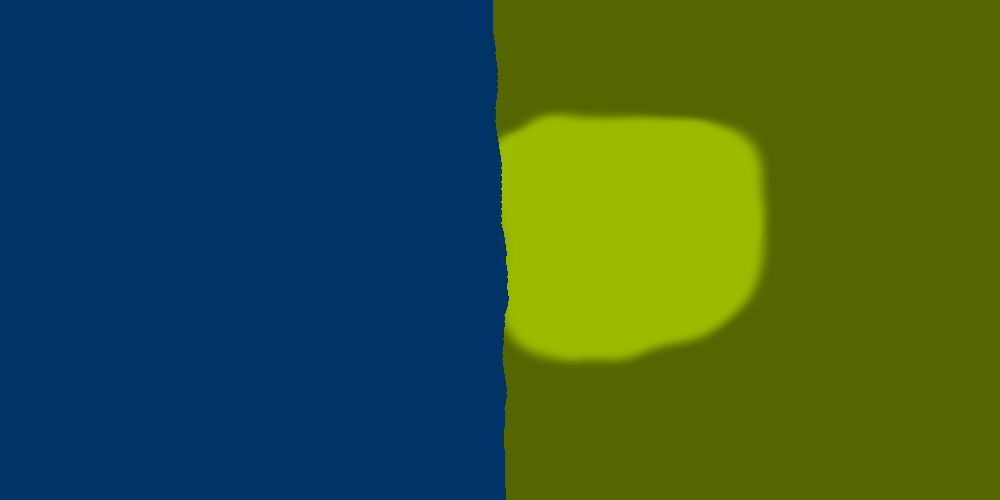
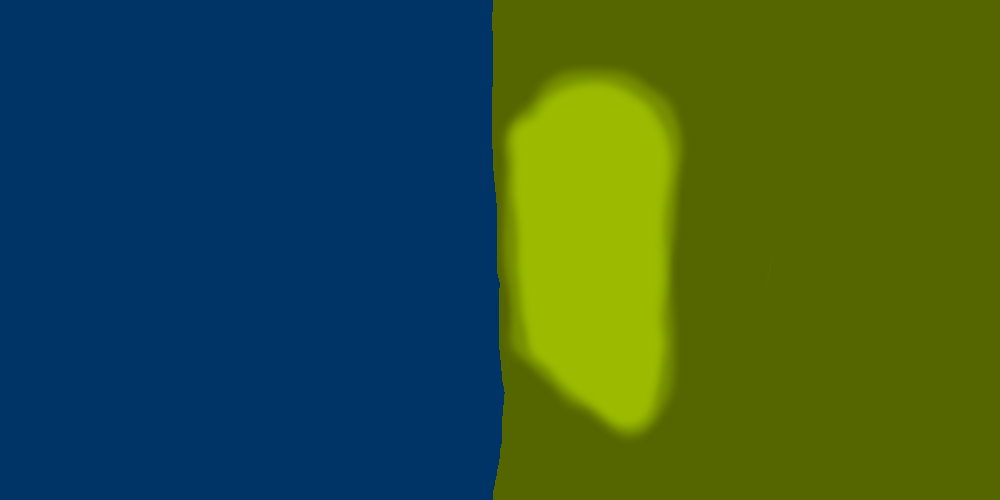
Tweak trenches, subduction, volcanic activity and serialization
[#153491483]

Changed region(s): [[0.465, 0.12, 0.775, 0.87], [0.496, 0.9, 0.527, 1.0]]

diff --git a/js/plates-model/field.js b/js/plates-model/field.js
@@ -54,21 +54,21 @@ export default class Field extends FieldBase {
     this.orogeny = null
     this.volcanicAct = null
     this.subduction = null
-    this.topPlateDeform = false
+    this.trench = false
 
     // Used by adjacent fields only (see model.generateNewFields).
     this.noCollisionDist = 0
 
     // Physics properties:
     this.mass = getMass(this.type)
-    this.draggingPlate = null
 
     // Properties that are not serialized and can be derived from other properties.
+    this.draggingPlate = null // calculated during collision detection
     this.isContinentBuffer = false
   }
 
   get serializableProps () {
-    return [ 'id', 'boundary', 'age', '_type', 'baseElevation', 'baseCrustThickness', 'noCollisionDist', 'mass', 'topPlateDeform', 'originalColor' ]
+    return [ 'id', 'boundary', 'age', '_type', 'baseElevation', 'baseCrustThickness', 'trench', 'noCollisionDist', 'mass', 'originalColor' ]
   }
 
   serialize () {
@@ -76,8 +76,6 @@ export default class Field extends FieldBase {
     props.orogeny = this.orogeny && this.orogeny.serialize()
     props.subduction = this.subduction && this.subduction.serialize()
     props.volcanicAct = this.volcanicAct && this.volcanicAct.serialize()
-    // Custom serialization of references to other objects.
-    props.draggingPlate = this.draggingPlate ? this.draggingPlate.id : null
     return props
   }
 
@@ -87,9 +85,6 @@ export default class Field extends FieldBase {
     field.orogeny = props.orogeny && Orogeny.deserialize(props.orogeny, field)
     field.subduction = props.subduction && Subduction.deserialize(props.subduction, field)
     field.volcanicAct = props.volcanicAct && VolcanicActivity.deserialize(props.volcanicAct, field)
-    // Those properties are just IDs at this point. They need to be processed later,
-    // when all the objects are already created. It's done in the Model.deserialize method.
-    field.draggingPlate = props.draggingPlate
     return field
   }
 
@@ -117,6 +112,11 @@ export default class Field extends FieldBase {
 
   get isIsland () {
     return this._type === FIELD_TYPE.island
+  }
+
+  get subductingPlateUnderneath () {
+    // Volcanic activity happens on the overriding plate. Just check if it's still colliding with subducting plate.
+    return this.volcanicAct && this.volcanicAct.colliding
   }
 
   get oceanicCrust () {
@@ -160,11 +160,12 @@ export default class Field extends FieldBase {
         // age = 0 => oceanicRidgeElevation
         // age = 1 => baseElevation
         modifier = (config.oceanicRidgeElevation - this.baseElevation) * (1 - this.normalizedAge)
-      } else if (this.topPlateDeform && this.isBoundary()) {
-        modifier = -1.5
       }
     } else {
       modifier += this.mountainElevation
+    }
+    if (this.trench) {
+      modifier = -1.5
     }
     return Math.min(1, this.baseElevation + modifier)
   }
@@ -179,6 +180,9 @@ export default class Field extends FieldBase {
   }
 
   get crustThickness () {
+    if (this.trench) {
+      return 0.1
+    }
     if (this.isOcean) {
       return this.baseCrustThickness * this.normalizedAge
     } else {
@@ -191,6 +195,9 @@ export default class Field extends FieldBase {
   }
 
   get lithosphereThickness () {
+    if (this.trench) {
+      return 0.1
+    }
     if (this.isOcean) {
       return 0.7 * this.normalizedAge
     }
@@ -211,7 +218,6 @@ export default class Field extends FieldBase {
     this.orogeny = null
     this.volcanicAct = null
     this.subduction = null
-    this.topPlateDeform = false
     this.mass = getMass(this.type)
   }
 
@@ -291,11 +297,25 @@ export default class Field extends FieldBase {
     if (this.volcanicAct) {
       this.volcanicAct.update(timestep)
     }
+    if (this.trench && (!this.boundary || this.orogeny)) {
+      // Remove trench when field isn't boundary anymore. Or when it collides with other continent and orogeny happens.
+      this.trench = false
+    }
+    if (!this.trench && this.boundary && this.subductingPlateUnderneath) {
+      this.trench = true
+    }
+
     // Age is a travelled distance in fact.
     this.age += this.displacement(timestep).length()
   }
 
   resetCollisions () {
     this.draggingPlate = null
+    if (this.subduction) {
+      this.subduction.resetCollision()
+    }
+    if (this.volcanicAct) {
+      this.volcanicAct.resetCollision()
+    }
   }
 }

diff --git a/js/plates-model/model.js b/js/plates-model/model.js
@@ -35,6 +35,7 @@ export default class Model {
       // it should be sorted again.
       this.plates = generatePlates(imgData, initFunction).sort(sortByDensityAsc)
       markIslands(this.plates)
+      this.calculateDynamicProperties()
     }
   }
 
@@ -55,12 +56,7 @@ export default class Model {
     model.plates = props.plates.map(serializedPlate => Plate.deserialize(serializedPlate))
     // Calculate values that are not serialized and can be derived from other properties.
     markIslands(model.plates)
-    // Deserialize references to other objects. This can be done when all the plates and fields are initially created.
-    model.forEachField(f => {
-      if (f.draggingPlate) {
-        f.draggingPlate = model.getPlate(f.draggingPlate)
-      }
-    })
+    model.calculateDynamicProperties()
     return model
   }
 
@@ -174,17 +170,23 @@ export default class Model {
       this.divideBigPlates()
     }
 
+    this.calculateDynamicProperties()
+
     if (this.kineticEnergy > 500) {
       window.alert('Model has diverged, time: ' + this.time)
       this._diverged = true
     }
   }
 
-  // Detect collisions, update geological processes, add new fields and remove unnecessary ones.
-  simulatePlatesInteractions (timestep) {
-    this.forEachField(field => field.resetCollisions())
+  // Calculates properties that can be derived from other properties and don't need to be serialized.
+  // Those properties also should be updated every step.
+  calculateDynamicProperties () {
     this.forEachPlate(plate => plate.calculateContinentBuffers())
     this.detectCollisions()
+  }
+
+  // Detect collisions, update geological processes, add new fields and remove unnecessary ones.
+  simulatePlatesInteractions (timestep) {
     this.forEachField(field => field.performGeologicalProcesses(timestep))
     this.forEachPlate(plate => plate.removeUnnecessaryFields()) // e.g. fields that subducted
     this.removeEmptyPlates()
@@ -196,6 +198,7 @@ export default class Model {
   }
 
   detectCollisions () {
+    this.forEachField(field => field.resetCollisions())
     // Note that plates are sorted by density (see constructor).
     // Start from the bottom plate. Why? When testing overlapping of bottom fields with top fields, it might happen
     // that we will miss some top ones. Even though there is some plate underneeth. This is better than the other way

diff --git a/js/plates-model/volcanic-activity.js b/js/plates-model/volcanic-activity.js
@@ -36,7 +36,12 @@ export default class VolcanicActivity {
 
   get islandProbability () {
     if (!this.active) return 0
-    return this.value / 40
+    return this.value / 20
+  }
+
+  get colliding () {
+    // See .setCollision. If there's any collision, speed would be > 0.
+    return this.speed > 0
   }
 
   setCollision (field) {
@@ -56,7 +61,6 @@ export default class VolcanicActivity {
 
   update (timestep) {
     if (!this.active) {
-      this.resetCollision()
       return
     }
 
@@ -74,7 +78,5 @@ export default class VolcanicActivity {
     }
 
     this.deformingCapacity -= timestep
-
-    this.resetCollision()
   }
 }

diff --git a/js/plates-model/subduction.js b/js/plates-model/subduction.js
@@ -34,7 +34,7 @@ export default class Subduction {
   }
 
   get progress () {
-    return Math.min(1, this.dist / MAX_SUBDUCTION_DIST)
+    return Math.min(1, Math.pow(this.dist / MAX_SUBDUCTION_DIST, 2))
   }
 
   get active () {
@@ -101,8 +101,6 @@ export default class Subduction {
     // It should be called after all the update() calls are made. However, it shouldn't have significant impact
     // on the simulation and simplifies code a bit.
     this.tryToDetachFromPlate()
-
-    this.resetCollision()
   }
 
   tryToDetachFromPlate () {

diff --git a/js/colormaps.js b/js/colormaps.js
@@ -46,7 +46,7 @@ function d3Colormap (desc, shadesCount = null) {
 // https://gist.github.com/hugolpz/4351d8f1b3da93de2c61
 // https://en.wikipedia.org/wiki/Wikipedia:WikiProject_Maps/Conventions#Topographic_maps
 const topoColormap = d3Colormap({
-  [MIN_ELEVATION]: '#003b63',
+  [MIN_ELEVATION]: '#2f85bf',
   0.00: '#3696d8',
   0.49: '#b5ebfe',
   0.50: '#A7DFD2',

diff --git a/js/plates-model/fields-collision.js b/js/plates-model/fields-collision.js
@@ -15,7 +15,6 @@ function subduction (bottomField, topField) {
     topField.volcanicAct = new VolcanicActivity(topField)
   }
   bottomField.subduction.setCollision(topField)
-  topField.topPlateDeform = true
   topField.volcanicAct.setCollision(bottomField)
 }
 

diff --git a/js/constants.js b/js/constants.js
@@ -2,6 +2,6 @@ export default {
   earthArea: 510100000, // km2
   earthRadius: 6371, // km
   // After X km, plate disappears / melts / goes deep into the mantle.
-  subductionWidth: 1200, // km
+  subductionWidth: 1500, // km
   orogenyWidth: 1200 // km
 }
